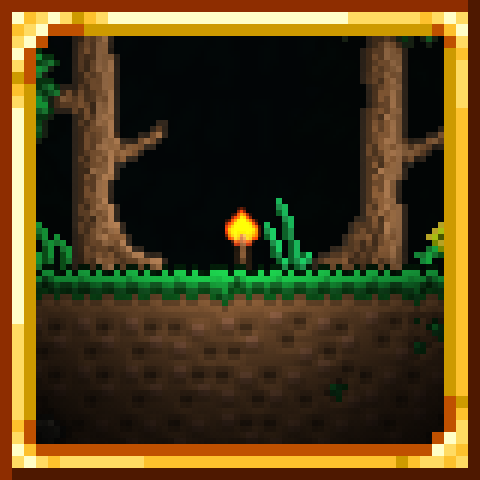
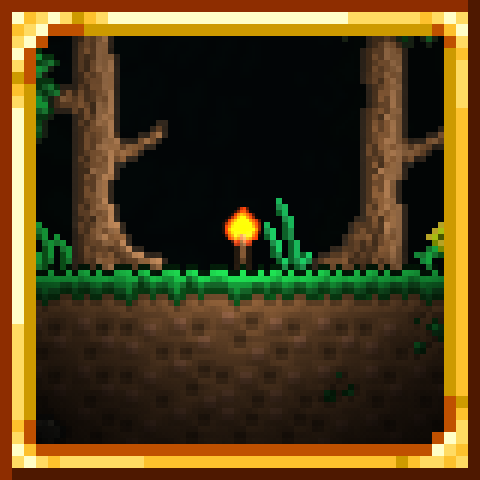
Update to v0.8.4

diff --git a/PostProcessing.cs b/PostProcessing.cs
@@ -12,8 +12,7 @@ internal sealed class PostProcessing
 {
     private readonly Texture2D _ditherNoise;
 
-    private Shader _customGammaToGammaShader;
-    private Shader _customGammaToSrgbShader;
+    private Shader _gammaToGammaShader;
     private Shader _gammaToSrgbShader;
 
     public PostProcessing()
@@ -25,13 +24,9 @@ internal sealed class PostProcessing
             )
             .Value;
 
-        _customGammaToGammaShader = EffectLoader.LoadEffect(
+        _gammaToGammaShader = EffectLoader.LoadEffect(
             "FancyLighting/Effects/PostProcessing",
-            "CustomGammaToGamma"
-        );
-        _customGammaToSrgbShader = EffectLoader.LoadEffect(
-            "FancyLighting/Effects/PostProcessing",
-            "CustomGammaToSrgb"
+            "GammaToGamma"
         );
         _gammaToSrgbShader = EffectLoader.LoadEffect(
             "FancyLighting/Effects/PostProcessing",
@@ -42,8 +37,7 @@ internal sealed class PostProcessing
     public void Unload()
     {
         _ditherNoise?.Dispose();
-        EffectLoader.UnloadEffect(ref _customGammaToGammaShader);
-        EffectLoader.UnloadEffect(ref _customGammaToSrgbShader);
+        EffectLoader.UnloadEffect(ref _gammaToGammaShader);
         EffectLoader.UnloadEffect(ref _gammaToSrgbShader);
     }
 
@@ -59,19 +53,13 @@ internal sealed class PostProcessing
         );
 
         var useSrgb = PreferencesConfig.Instance.UseSrgb;
-        var useCustomGamma = PreferencesConfig.Instance.UseCustomGamma();
-        var gamma = PreferencesConfig.Instance.GammaExponent();
+        var gammaRatio = PreferencesConfig.Instance.GammaExponent();
         if (!useSrgb)
         {
-            gamma /= 2.2f;
+            gammaRatio /= 2.2f;
         }
 
-        var shader = useSrgb
-            ? useCustomGamma
-                ? _customGammaToSrgbShader
-                : _gammaToSrgbShader
-            : _customGammaToGammaShader;
-
+        var shader = useSrgb ? _gammaToSrgbShader : _gammaToGammaShader;
         shader
             .SetParameter(
                 "DitherCoordMult",
@@ -80,7 +68,7 @@ internal sealed class PostProcessing
                     (float)-target.Height / _ditherNoise.Height
                 )
             ) // Multiply by -1 so that it's different from the dithering in bicubic filtering
-            .SetParameter("Gamma", gamma)
+            .SetParameter("GammaRatio", gammaRatio)
             .Apply();
 
         Main.graphics.GraphicsDevice.Textures[4] = _ditherNoise;

diff --git a/LightingEngines/FancyLightingEngineBase.cs b/LightingEngines/FancyLightingEngineBase.cs
@@ -173,28 +173,32 @@ internal abstract class FancyLightingEngineBase : ICustomLightingEngine
     }
 
     protected void UpdateBrightnessCutoff(
-        float baseCutoff = 0.04f,
-        float cameraModeCutoff = 0.02f,
-        double temporalDataDivisor = 55555.5,
-        double temporalMult = 0.02,
+        double temporalMult = 1.0,
         double temporalMin = 0.02,
         double temporalMax = 0.125
     )
     {
+        const float BaseCutoff = 0.04f;
+        const float CameraModeCutoff = 0.02f;
+        const double TemporalDataDivisor = 55555.5;
+        const double BaseTemporalMult = 0.02;
+
+        temporalMult *= BaseTemporalMult;
+
         _initialBrightnessCutoff = LowLightLevel;
 
         var cutoff =
-            FancyLightingMod._inCameraMode ? cameraModeCutoff
+            FancyLightingMod._inCameraMode ? CameraModeCutoff
             : LightingConfig.Instance.FancyLightingEngineUseTemporal
                 ? (float)
                     Math.Clamp(
-                        Math.Sqrt(_temporalData / temporalDataDivisor) * temporalMult,
+                        Math.Sqrt(_temporalData / TemporalDataDivisor) * temporalMult,
                         temporalMin,
                         temporalMax
                     )
-            : baseCutoff;
+            : BaseCutoff;
 
-        var basicWorkCutoff = baseCutoff;
+        var basicWorkCutoff = BaseCutoff;
 
         if (LightingConfig.Instance.DoGammaCorrection())
         {
@@ -955,10 +959,10 @@ internal abstract class FancyLightingEngineBase : ICustomLightingEngine
                 || otherColor.Z < threshold.Z;
         }
 
-        doUp = upDistance > 0 ? LessThanThreshold(index - 1) : false;
-        doDown = downDistance > 0 ? LessThanThreshold(index + 1) : false;
-        doLeft = leftDistance > 0 ? LessThanThreshold(index - height) : false;
-        doRight = rightDistance > 0 ? LessThanThreshold(index + height) : false;
+        doUp = upDistance > 0 && LessThanThreshold(index - 1);
+        doDown = downDistance > 0 && LessThanThreshold(index + 1);
+        doLeft = leftDistance > 0 && LessThanThreshold(index - height);
+        doRight = rightDistance > 0 && LessThanThreshold(index + height);
     }
 
     [MethodImpl(MethodImplOptions.AggressiveInlining)]

diff --git a/SmoothLighting.cs b/SmoothLighting.cs
@@ -2553,10 +2553,9 @@ internal sealed class SmoothLighting
         var hiDef = LightingConfig.Instance.HiDefFeaturesEnabled();
         var lightOnly = PreferencesConfig.Instance.RenderOnlyLight;
         var doOverbright = LightingConfig.Instance.DrawOverbright();
-        var doDitheringSecond = (simulateNormalMaps || doOverbright) && hiDef;
-        var doGamma = LightingConfig.Instance.DoGammaCorrection();
-        var doAmbientOcclusion = background && ambientOcclusionTarget is not null;
         var doOneStepOnly = !(simulateNormalMaps || doOverbright);
+        var doDitheringSecond = !doOneStepOnly && hiDef;
+        var doAmbientOcclusion = background && ambientOcclusionTarget is not null;
 
         if (doBicubicUpscaling)
         {
@@ -2573,7 +2572,6 @@ internal sealed class SmoothLighting
                     // If hiDef is true and doOverbright is false, whether normal maps are enabled
                     // affects the result of the hi-res light map
                 }
-
                 lightMapTexture = _colorsBackgroundHiRes;
             }
             else
@@ -2687,13 +2685,10 @@ internal sealed class SmoothLighting
                             ? _overbrightAmbientOcclusionShader
                             : _overbrightShader;
 
+            var gamma = PreferencesConfig.Instance.GammaExponent();
             var normalMapResolution = fineNormalMaps ? 1f : 2f;
             var normalMapRadius = 12.5f;
-            var normalMapMult = PreferencesConfig.Instance.NormalMapsMultiplier();
-            if (fineNormalMaps)
-            {
-                normalMapMult *= 2f;
-            }
+            var normalMapMult = 1.25f * PreferencesConfig.Instance.NormalMapsMultiplier();
             var normalMapStrength = 1f / (1f + normalMapMult);
             var overbrightMult = doOverbright
                 ? hiDef
@@ -2702,6 +2697,8 @@ internal sealed class SmoothLighting
                 : 1f;
 
             shader
+                .SetParameter("Gamma", gamma)
+                .SetParameter("ReciprocalGamma", 1f / gamma)
                 .SetParameter("OverbrightMult", overbrightMult)
                 .SetParameter(
                     "NormalMapResolution",

diff --git a/Config/PreferencesConfig.cs b/Config/PreferencesConfig.cs
@@ -1,4 +1,5 @@
 using System.ComponentModel;
+using FancyLighting.Util;
 using Terraria;
 using Terraria.ModLoader;
 using Terraria.ModLoader.Config;
@@ -40,6 +41,9 @@ public sealed class PreferencesConfig : ModConfig
     {
         ModContent.GetInstance<FancyLightingMod>()?.OnConfigChange();
         ModContent.GetInstance<FancyLightingModSystem>()?.OnConfigChange();
+
+        GammaConverter._gamma = GammaExponent();
+        GammaConverter._reciprocalGamma = 1f / GammaConverter._gamma;
     }
 
     [Range(DefaultOptions.MinThreadCount, DefaultOptions.MaxThreadCount)]
@@ -73,7 +77,7 @@ public sealed class PreferencesConfig : ModConfig
 
     // Smooth Lighting, Normal Maps, Overbright
     [Header("SmoothLighting")]
-    [Range(1, 10)]
+    [Range(1, 8)]
     [Increment(1)]
     [DefaultValue(DefaultOptions.NormalMapsIntensity)]
     [Slider]
@@ -96,7 +100,7 @@ public sealed class PreferencesConfig : ModConfig
     public int AmbientOcclusionRadius { get; set; }
 
     [Range(20, 400)]
-    [Increment(20)]
+    [Increment(25)]
     [DefaultValue(DefaultOptions.AmbientOcclusionIntensity)]
     [Slider]
     [DrawTicks]

diff --git a/Util/GammaConverter.cs b/Util/GammaConverter.cs
@@ -6,8 +6,11 @@ namespace FancyLighting.Util;
 
 internal static class GammaConverter
 {
+    internal static float _gamma;
+    internal static float _reciprocalGamma;
+
     [MethodImpl(MethodImplOptions.AggressiveInlining)]
-    public static void GammaToLinear(ref float x) => x = MathF.Pow(x, 2.2f);
+    public static void GammaToLinear(ref float x) => x = MathF.Pow(x, _gamma);
 
     [MethodImpl(MethodImplOptions.AggressiveInlining)]
     public static void GammaToLinear(ref Vector3 color)
@@ -18,7 +21,7 @@ internal static class GammaConverter
     }
 
     [MethodImpl(MethodImplOptions.AggressiveInlining)]
-    public static float LinearToGamma(ref float x) => x = MathF.Pow(x, 1f / 2.2f);
+    public static float LinearToGamma(ref float x) => x = MathF.Pow(x, _reciprocalGamma);
 
     [MethodImpl(MethodImplOptions.AggressiveInlining)]
     public static void LinearToGamma(ref Vector3 color)

diff --git a/AmbientOcclusion.cs b/AmbientOcclusion.cs
@@ -455,7 +455,7 @@ internal sealed class AmbientOcclusion
         var power = PreferencesConfig.Instance.AmbientOcclusionPower();
         if (LightingConfig.Instance.DoGammaCorrection())
         {
-            power *= 2.2f;
+            power *= PreferencesConfig.Instance.GammaExponent();
         }
         var mult = PreferencesConfig.Instance.AmbientOcclusionMult();
         if (!LightingConfig.Instance.DoGammaCorrection())

diff --git a/Profiles/SkyColor/SkyColors1.cs b/Profiles/SkyColor/SkyColors1.cs
@@ -4,7 +4,7 @@ namespace FancyLighting.Profiles.SkyColor;
 
 public class SkyColors1 : ISimpleColorProfile
 {
-    private SkyColorProfile _profile;
+    private readonly SkyColorProfile _profile;
 
     public SkyColors1()
     {

diff --git a/Profiles/SkyColor/SkyColors2.cs b/Profiles/SkyColor/SkyColors2.cs
@@ -4,7 +4,7 @@ namespace FancyLighting.Profiles.SkyColor;
 
 public class SkyColors2 : ISimpleColorProfile
 {
-    private SkyColorProfile _profile;
+    private readonly SkyColorProfile _profile;
 
     public SkyColors2()
     {

diff --git a/Profiles/SkyColor/SkyColors3.cs b/Profiles/SkyColor/SkyColors3.cs
@@ -4,7 +4,7 @@ namespace FancyLighting.Profiles.SkyColor;
 
 public class SkyColors3 : ISimpleColorProfile
 {
-    private SkyColorProfile _profile;
+    private readonly SkyColorProfile _profile;
 
     public SkyColors3()
     {

diff --git a/README.md b/README.md
@@ -7,6 +7,12 @@ This mod is not endorsed by the creators of either Terraria or tModLoader.
 
 ### Latest Version
 
+**v0.8.4 (2024-11-01)**
+- Tweaked and slightly optimized simulated normal maps
+- Improved how the gamma setting works
+- Tweaked the range and increment of some sliders in the settings
+- Rerendered the mod icon
+
 **v0.8.3 (2024-10-29)**
 - Improved simulated normal maps
 - Changed the normal maps strength scale
